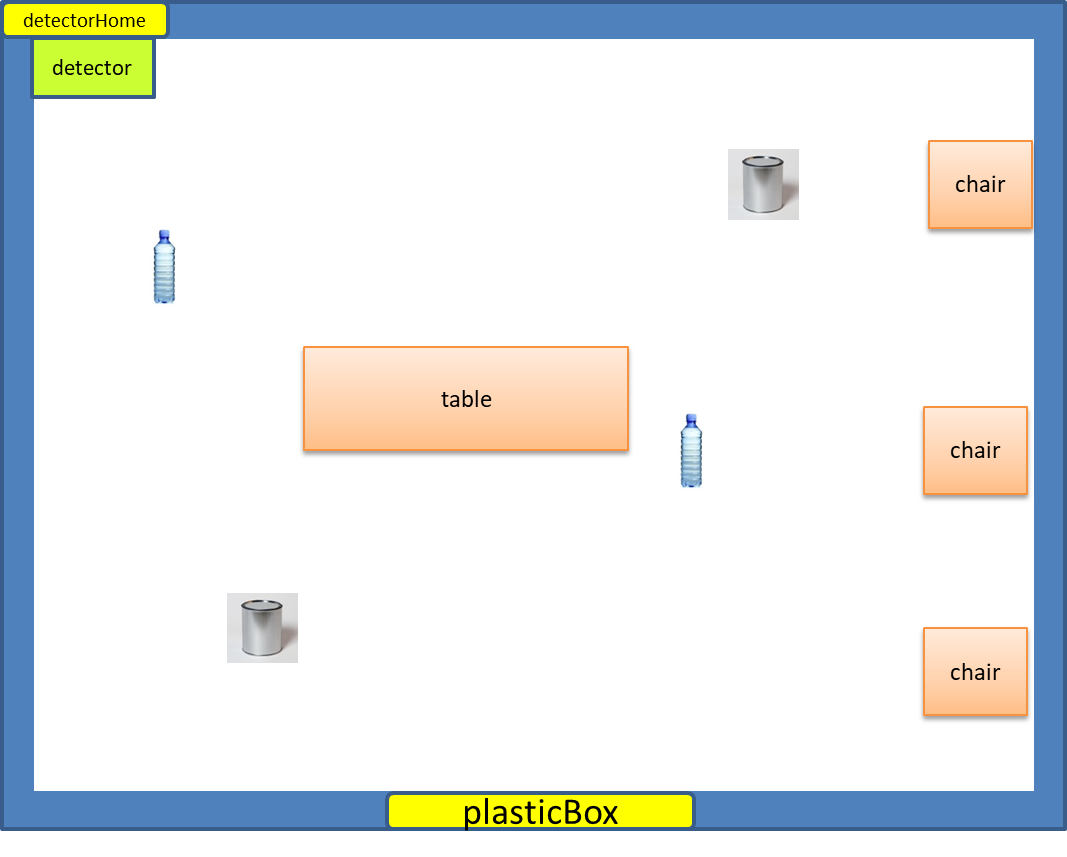
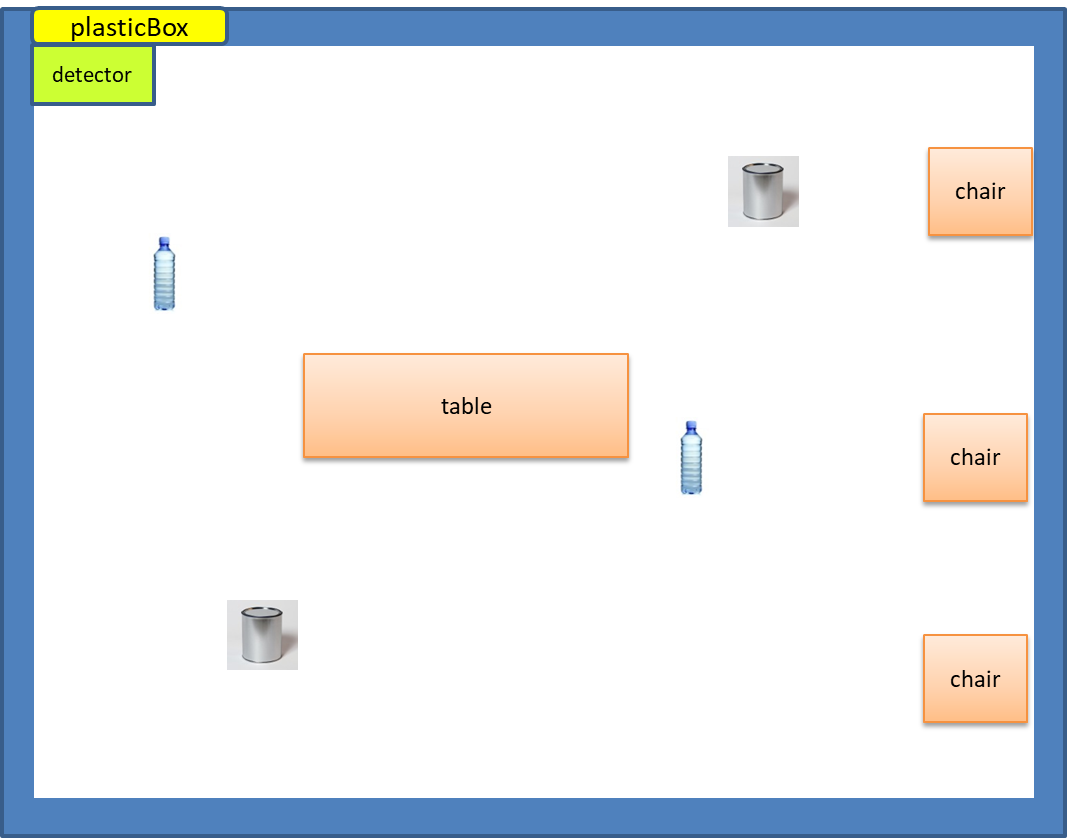
finaltask20

diff --git a/it.unibo.issLabStart/userDocs/TemaFinaleCe20.html b/it.unibo.issLabStart/userDocs/TemaFinaleCe20.html
@@ -159,7 +159,7 @@ LabISS-lectures site</a></font>
 
 The <em>supervisor</em> of a waiting room (<em>wroom</em>) of a large train station intends to promote automatic collection of the rubbish, by means of ddr robots.
 To this end, some specialized robot (<em>detector</em>) periodically explores the surface of the <em>wroom</em> in order to collect objects 
-made of recyclable material, for example bottles made of <i>plastic</i> .
+made of recyclable material, in particular bottles made of <i>plastic</i> .
 
  
 
@@ -173,16 +173,15 @@ When the indoor air quality sensor detects a level of <tt>TVOC</tt> higher than 
 
 <br/><br/>
 
-The <em>wroom</em> is also equipped with a collector of plastic-objects (<em>plasticBox</em>).
-The collector is situated along the border of the <em>wroom</em> and works as a smart device, 
+The <em>wroom</em> is also equipped with a collector of plastic-objects (<em>plasticBox</em>)
+that can contain a maximum of <m><k>NPB</k></m> (e.g. <tt>NPB=10</tt>) bottles.
+<br/><br/>
+The <em>detector</em> is initially located in a <em>detectorHome</em>  situated on the (left-up) corner of the <em>wroom</em>. 
+<br/><br/>
+The collector is situated along the border of the <em>wroom</em> behind the <em>detectorHome</em> and works as a smart device, 
 able to expose and update - via CoAP - its content.
 
-
-
-<h3>The detector</h3>
-
-A <em>detector</em> robot is initially located in a <em>detectorHome</em>  situated on the border of the <em>wroom</em>. 
-<br/><br/>
+ <br/><br/>
 	<center><table style="width:98%">
 	<tbody>	
 	<tr>
@@ -196,8 +195,11 @@ A <em>detector</em> robot is initially located in a <em>detectorHome</em>  situa
  	</td>
 	 </table>
 	</center> 	
-<br/><br/>
-The <em>detector</em> is able to recognize if an object is made of  plastic and is equipped with a local container (<em>detectorBox</em>).
+
+<h3>The detector</h3>
+
+The <em>detector</em> is able to recognize if an object is made of  plastic and is equipped with a local container (<em>detectorBox</em>)
+that can contain a maximum of <m><k>NDB&lt;NPB</k></m> (e.g. <tt>NDB=5</tt>) bottles.
 <br/><br/>
 The behavior of the <em>detector</em> is managed by the <em>supervisor</em>, which can tell the robot to perform a set of tasks.
 These tasks are executed when the <em>wroom</em> is <bc>closed</bc> to people and include:

diff --git a/it.unibo.issLabStart/userDocs/sceneConfig.js b/it.unibo.issLabStart/userDocs/sceneConfig.js
@@ -9,55 +9,17 @@ const config = {
         speed: 0.2
     },
     sonars: [
-	/*
-        {
-            name: "sonar1",
-            position: { x: 0.12, y: 0.05 },
-            senseAxis: { x: false, y: true }
-        },
-       {
-            name: "sonar2",
-            position: { x: 0.94, y: 0.88},
-            senseAxis: { x: true, y: false }
-        }
-		*/
-      ],
+       ],
     movingObstacles: [
-/*      {
-            name: "movingobstacle",
-            position: { x: .64, y: .42 },
-            directionAxis: { x: true, y: true },
-            speed: 0.2,
-            range: 28
-        },
- 
-        {
-            name: "wall",
-            position: { x: 0.0, y: 0.6 },
-            directionAxis: { x: true, y: false },
-            speed: 0.0078,
-            range: 120
-        }
-		 */
     ],
    staticObstacles: [
    
         {
-            name: "fridge",
-            centerPosition: { x: 0.85, y: 1.0},
+            name: "plasticBox",
+            centerPosition: { x: 0.15, y: 1.0},
             size: { x: 0.24, y: 0.07}
         },
 
-        {
-            name: "dishwasher",
-            centerPosition: { x: 0.85, y: 0.0},
-            size: { x: 0.2, y: 0.045        }
-		},
-        {
-            name: "pantry",
-            centerPosition: { x: 0.18, y: 0.0},
-            size: { x: 0.2, y: 0.045        }
-		},
 		
         {
             name: "table",
@@ -66,20 +28,20 @@ const config = {
 		},
 
         {
-            name: "p1",
+            name: "bottle1",
             centerPosition: { x: 0.55, y: 0.8 },
             size: { x: 0.05, y: 0.05      }
 		},
         {
-            name: "p2",
+            name: "bottle2",
             centerPosition: { x: 0.18, y: 0.20},
             size: { x: 0.05, y: 0.05      }
 		},
 
         {
-        name: "wallUp",
-			centerPosition: { x: 0.48, y: 0.97},
-			size: { x: 0.89, y: 0.01}
+            name: "wallUp",
+            centerPosition: { x: 0.48, y: 0.97},
+            size: { x: 0.89, y: 0.01}
         },
         {
             name: "wallDown",

diff --git a/it.unibo.issLabStart/userDocs/LabIss2020.html b/it.unibo.issLabStart/userDocs/LabIss2020.html
@@ -572,9 +572,9 @@ LABAndroidSensors.html |  Android sensors </a>  </m>
 	
 	<tr>
 	<td style="width:45%">	 
-	<m><a href=" " target="lab">....</a></m>	
+	<m><a href="TemaFinaleCe20.html" target="lab">TemaFinaleCe20.html</a></m>	
 	</td>
-	<td>Project <bc>...</bc><br/>
+	<td>Project <bc>it.unibo.issLabStart</bc><br/>
 	</td>
 <td>-</td>
 	</tr>	
